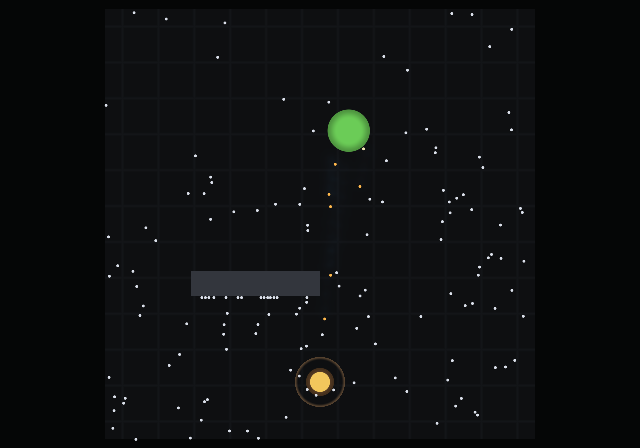
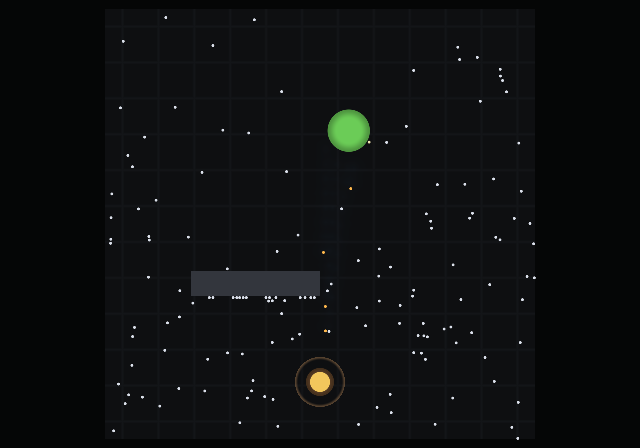
Ants leave the nest the way they came in
Departure never set a heading.  That is not a neutral omission: a
returning ant steers AT the nest, so the heading it carries in points
inward, and keeping it walked the ant out through the entrance and
straight on, away from everything it knew.  Measured over 613 departures
on an established trail: 65% left within 30 degrees of exactly opposite
the source, and not one of them left towards it.  Reported from the
window as ants wandering off with no plan, which was generous.

Each ant now carries one remembered bearing and sets off along it,
scattered by *nest-exit-scatter* (~29 degrees).  This is the route-memory
stub 3.4 has always specified, finally built.

The bearing is read off the ant's OWN path integrator at the moment it
leaves a source: the home vector points from the ant to the nest, so its
reverse is the nest-to-food bearing as that ant believes it.  Nothing
global is consulted and no new sense is added.

Three details are load-bearing:

  * Only a paying trip overwrites it, so a failed excursion cannot
    replace a good route with a bad one.
  * A newborn's bearing is random, which is what makes the naive ants the
    colony's explorers.  With the scatter, that is the whole of what
    stops fidelity from closing the colony's eyes to a new source.
  * It is taken at the source, not at the nest door.  The first attempt
    used the bearing at which the ant crossed the arrival radius, which
    sounds equivalent and is not: the entrance is packed with resting
[…]

Changed region(s): [[0.4688, 0.6562, 0.5, 0.6875], [0.4062, 0.6562, 0.4375, 0.6875], [0.3125, 0.6562, 0.3438, 0.6875]]

diff --git a/docs/concept.md b/docs/concept.md
@@ -284,9 +284,41 @@ navigation systems in parallel and weights them by confidence:
 2. **Trail following.** §3.3. Used when trail concentration exceeds the
    detection threshold.
 3. **Landmark / route memory.** A learned association between a remembered
-   view and a direction. This is the *Formica* mode; keep it as a stub in
-   the first version (a per-ant memory of the last successful food bearing)
-   and expand later.
+   view and a direction. This is the *Formica* mode; the first version
+   keeps the stub — a per-ant memory of the last successful food bearing —
+   and expands later.
+
+   **Built, as the stub.** Each ant carries one bearing, and sets off from
+   the nest along it. It is read straight off the ant's own path
+   integrator at the moment it leaves a source: the home vector points
+   from the ant to the nest, so its reverse is the nest→food bearing *as
+   that ant believes it*. Nothing global is consulted, and no new sense is
+   added — this is a reading of state the ant already maintains.
+
+   Three details are load-bearing:
+
+   - **Only a paying trip overwrites it.** An ant that comes home empty
+     keeps what it had, so a failed excursion cannot replace a good route
+     with a bad one.
+   - **A newborn's bearing is random**, which is what makes the naive ants
+     the colony's explorers. Together with `*nest-exit-scatter*` (≈29°),
+     that is the whole of what stops fidelity from closing the colony's
+     eyes to a source appearing somewhere new.
+   - **It is taken at the source, not at the nest door.** The first
+     attempt used the bearing at which the ant crossed the arrival radius,
+     which sounds equivalent and is not: the entrance is packed with
+     resting ants, so an arriving forager slides around the cluster and
+     comes in tangentially. Measured, that put departures at a peak of
+     about 1.5 rad off the source — *perpendicular* to it — because the
+     crowd, not the route, was setting the angle.
+
+   Before any of this existed, departure set no heading at all. That is
+   not a neutral omission: a returning ant steers *at* the nest, so the
+   heading it carries in points inward, and keeping it walked the ant out
+   through the entrance and straight on. Measured over 613 departures on
+   an established trail, **65% left within 30° of exactly opposite the
+   source and not one left towards it**. With the memory in place, 34%
+   leave within 15° of it and 2.4% away from it.
 
 Weighting these is where personality comes from. An ant with a strong home
 vector and a weak trail ignores the trail. This is observed and it is what
@@ -1182,6 +1214,21 @@ there was a window to see them in.
   had been indistinguishable from a nest full of ants declining to leave,
   and it was read as exactly that — by a human watching, which is the
   point.
+- **Departure set no heading at all**, so an ant left the nest pointing
+  the way it came in — *inward* — and walked out the far side. 65% of
+  departures set off within 30° of exactly opposite the source they had
+  just returned from. Fixed with the route-memory stub §3.4 had always
+  called for.
+
+Fixing that last one turned up a bug of a different kind, worth recording
+because it is the one way a counter-based RNG can still surprise you. The
+exit scatter was drawn from the same stream as the decision to leave — and
+a departure only happens when *that* draw comes out under
+`*leave-probability*` ≈ 0.005. `rnd-normal` is Box-Muller, so it feeds
+that same `u₁` into `√(−2 ln u₁)`: conditioning on `u₁ < 0.005` forces the
+magnitude above 3.2σ every single time, and every ant left on a wild angle
+deterministically. The draws look independent and are not. **One stream,
+one question.**
 
 The lesson is the same one M2 was justified by, and it keeps holding: the
 renderer earns its early place because *the model's failures are shaped
